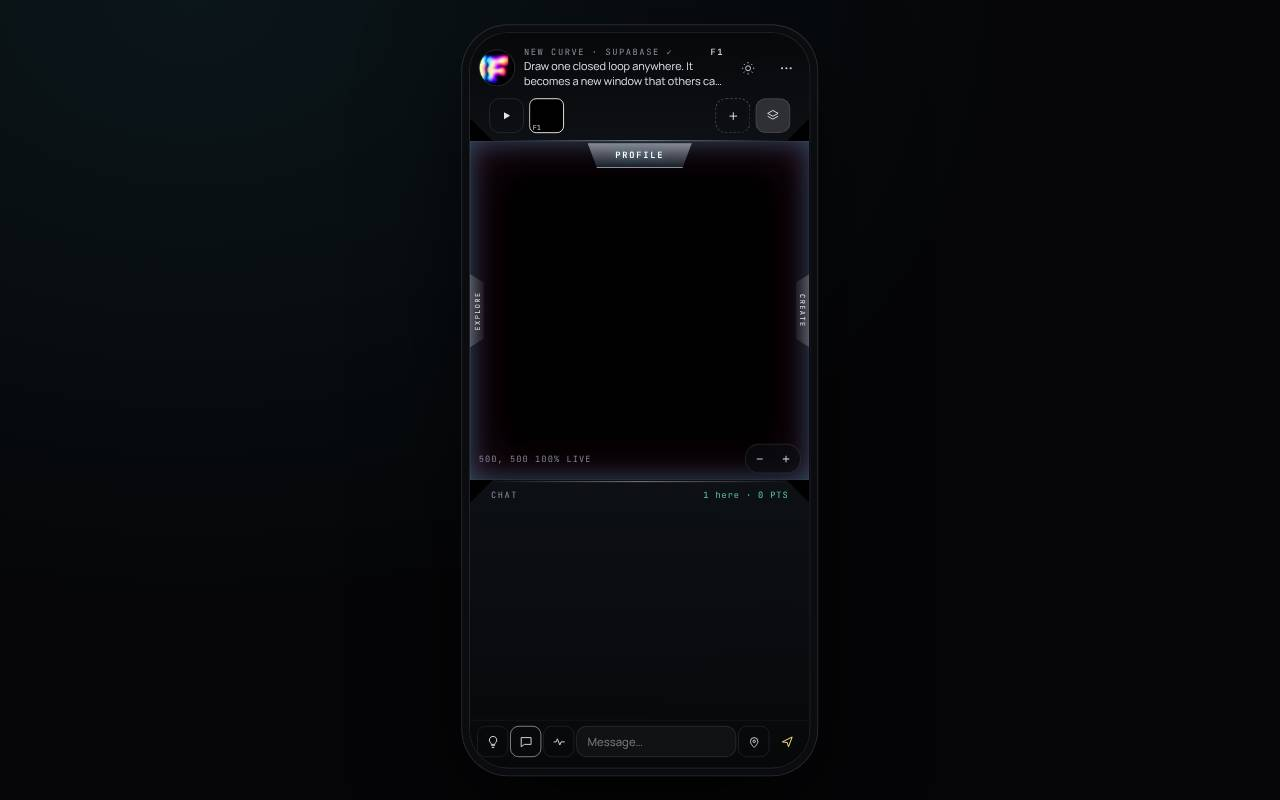
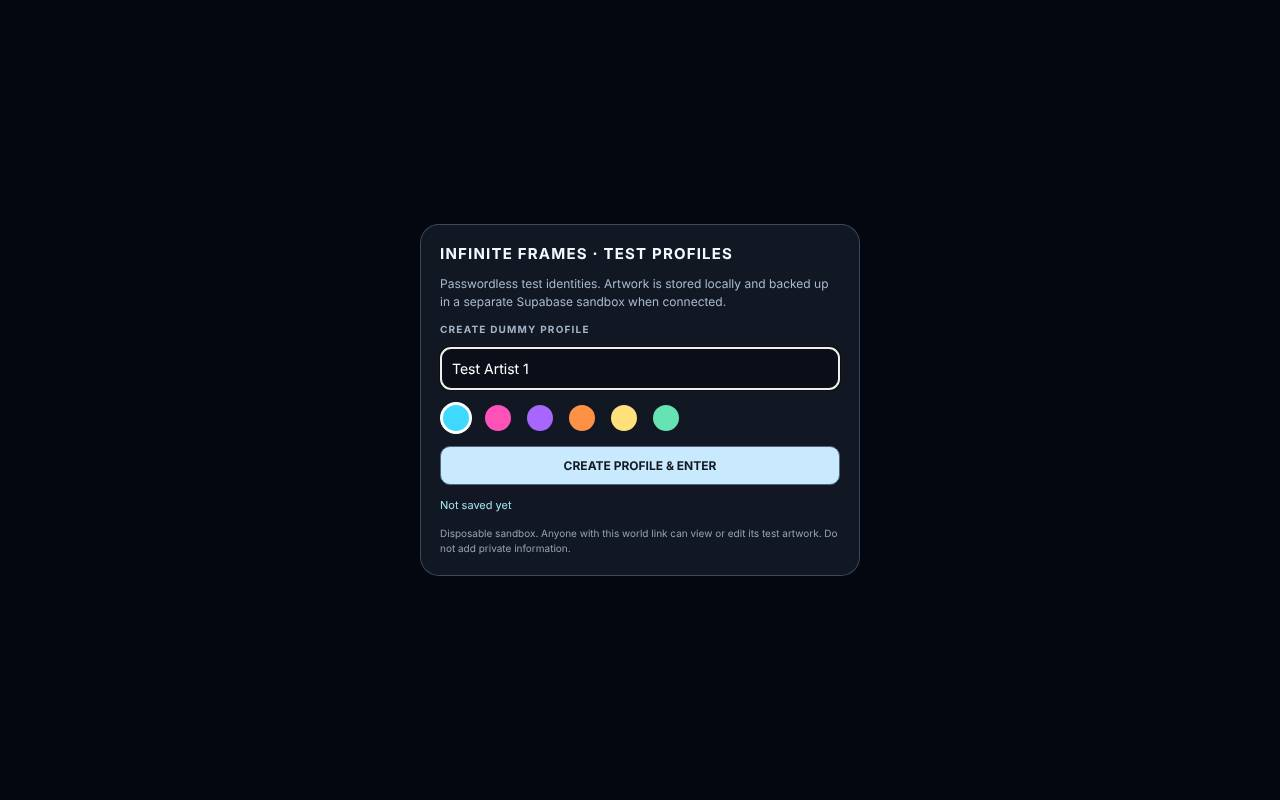
Hub: Start here strip from AI_HANDOFF.md, Rebuild Preview marked main
Adds a Start here section (main app, branch, PR #6, handoff link and the
rules for coding agents), Main / Next candidate / Experiment labels with
the main app first in its lane, an AI_HANDOFF.md card, and a fresh
screenshot of the handoff's preview link.

Claude-Session: https://claude.ai/code/session_01LLn53RhQzgM5NVEMNuSXQy

Changed region(s): [[0.3125, 0.125, 0.6875, 0.7188], [0.375, 0.0625, 0.5625, 0.125], [0.4062, 0.9062, 0.5, 0.9375]]

diff --git a/hub/apps.js b/hub/apps.js
@@ -4,6 +4,31 @@
 //   values: 0 = not yet, 1 = in progress / partly, 2 = works ✓
 // links: ids of apps this one stitches into (draws a line in Web view).
 
+// "Start here" strip shown at the top of the board. Mirrors AI_HANDOFF.md.
+window.HUB_START = {
+  mainApp: "if-rebuild",
+  branch: "feature/guest-test-profiles-supabase-20261114",
+  branchUrl: "https://github.com/outoftheboxartist/infinite-frames/tree/feature/guest-test-profiles-supabase-20261114",
+  pr: "https://github.com/outoftheboxartist/infinite-frames/pull/6",
+  preview: "https://infinite-frames-rebuild-preview-8ngli7mnw.vercel.app",
+  handoff: "https://github.com/outoftheboxartist/infinite-frames/blob/feature/guest-test-profiles-supabase-20261114/AI_HANDOFF.md",
+  notes: [
+    "The default branch inthebox is NOT the latest app.",
+    "Engine V2 is a speed experiment, not a replacement UI."
+  ],
+  rules: [
+    "Fetch the branch head before every work session. GitHub is the shared source of truth, not either model's memory.",
+    "Work in branches and PRs. Never overwrite or merge inthebox without approval.",
+    "Keep the original application as the target, not engine-v2.",
+    "Preserve all artwork and existing app features.",
+    "Run regression tests and check syntax; publish a preview before saying a fix works.",
+    "Say what was tested in code versus checked on a real phone, browser or Supabase.",
+    "Never weaken production auth, RLS or storage permissions to make testing easier.",
+    "Commit a short update to AI_HANDOFF.md when architecture or test flows change.",
+    "Coordinate through the latest commits and PRs: assistants do not sync live."
+  ]
+};
+
 window.HUB_PLATFORMS = [
   { id: "vercel", label: "Vercel", note: "Main · production home", main: true },
   { id: "claude", label: "Claude artifacts", note: "claude.ai pages" },
@@ -27,42 +52,42 @@ const VC = "https://vercel.com/outoftheboxartists-projects/";
 window.HUB_APPS = [
   // ---------- Vercel ----------
   {
-    id: "if-engine", platform: "vercel", name: "Infinite Frames · Engine",
+    id: "if-engine", platform: "vercel", name: "Infinite Frames · Engine", role: "candidate",
     url: "https://infinite-frames-engine.vercel.app",
     code: REPO + "/tree/feature/canvas-engine-transplant-20261117",
     dash: VC + "infinite-frames-engine", shot: "shots/infinite-frames-engine.jpg",
     date: "2026-11-17",
-    features: "Original app with the nested canvas engine: map-style tile cache, lab-style navigation, shared guest test world, 3D box.",
+    features: "Newer branch: the original app with the nested canvas engine (tile cache, lab-style navigation, shared guest test world, 3D box). Not main yet; merge into the main branch when it is proven.",
     status: { if: 2, test: 1, ui: 2, perfect: 1, users: 1, frames: 2 },
     links: ["if-artifact", "if-rebuild", "if-nested-lab"]
   },
   {
-    id: "if-rebuild", platform: "vercel", name: "Rebuild Preview",
-    url: "https://infinite-frames-rebuild-preview.vercel.app",
+    id: "if-rebuild", platform: "vercel", name: "Rebuild Preview", role: "main",
+    url: "https://infinite-frames-rebuild-preview-8ngli7mnw.vercel.app",
     code: REPO + "/tree/feature/guest-test-profiles-supabase-20261114",
     dash: VC + "infinite-frames-rebuild-preview", shot: "shots/infinite-frames-rebuild-preview.jpg",
     date: "2026-11-14",
-    features: "Guest test profiles on Supabase, cloud save, offline reset, single-SVG publish.",
+    features: "THE MAIN APP. Original UI with passwordless test profiles, local-first test canvas with Supabase sandbox backup, reset, curve hit selection, region navigation, Publish & Lock. Draft PR #6.",
     status: { if: 2, test: 2, ui: 1, perfect: 0, users: 2, frames: 1 },
     links: ["if-engine"]
   },
   {
-    id: "if-v2-integration", platform: "vercel", name: "Spatial Engine V2 · Integration",
+    id: "if-v2-integration", platform: "vercel", name: "Spatial Engine V2 · Integration", role: "experiment",
     url: "https://infinite-frames-v2-integration.vercel.app",
     code: REPO + "/tree/feature/v2-real-world-renderer",
     dash: VC + "infinite-frames-v2-integration", shot: "shots/infinite-frames-v2-integration.jpg",
     date: "2026-11-14",
-    features: "V2 renderer reading the real world read-only; published geometry storage.",
+    features: "Speed experiment, not a UI replacement. V2 renderer reading the real world read-only.",
     status: { if: 2, test: 1, ui: 1, perfect: 0, users: 0, frames: 1 },
-    links: ["if-engine-v2"]
+    links: ["if-engine-v2", "if-rebuild"]
   },
   {
-    id: "if-engine-v2", platform: "vercel", name: "Spatial Engine V2",
+    id: "if-engine-v2", platform: "vercel", name: "Spatial Engine V2", role: "experiment",
     url: "https://infinite-frames-engine-v2.vercel.app",
     code: REPO + "/tree/engine/v2-spatial-foundation",
     dash: VC + "infinite-frames-engine-v2", shot: "shots/infinite-frames-engine-v2.jpg",
     date: "2026-11-14",
-    features: "Spatial foundation: relationship-based opacity, one world infinite detail, speed/stats HUD.",
+    features: "Speed experiment, not a UI replacement. Its viewport/quadtree tricks are already folded into the main app.",
     status: { if: 2, test: 1, ui: 1, perfect: 0, users: 0, frames: 0 },
     links: ["if-spatial"]
   },
@@ -202,6 +227,14 @@ window.HUB_APPS = [
   },
 
   // ---------- GitHub folders ----------
+  {
+    id: "ai-handoff", platform: "github", name: "AI_HANDOFF.md (read first)", role: "main",
+    url: REPO + "/blob/feature/guest-test-profiles-supabase-20261114/AI_HANDOFF.md",
+    code: REPO + "/tree/feature/guest-test-profiles-supabase-20261114",
+    shot: "", date: "2026-11-14",
+    features: "Shared notes for Claude, ChatGPT and any coding agent: current branch, PR, preview, database rules and what still needs checking.",
+    status: { if: 2, test: 0, ui: 0, perfect: 1, users: 0, frames: 0 }, links: ["if-rebuild"]
+  },
   {
     id: "if-repo-app", platform: "github", name: "app/ (main app source)",
     url: REPO + "/blob/main/app/local-preview.html", code: REPO + "/tree/main/app",

diff --git a/hub/index.html b/hub/index.html
@@ -128,6 +128,21 @@ dialog::backdrop{background:rgba(20,16,12,.45)}
 .btn.danger{color:#b42318;border-color:#e4b4ae;margin-right:auto}
 .toast{position:fixed;bottom:16px;left:50%;transform:translateX(-50%);background:var(--ink);color:var(--bg);padding:10px 16px;border-radius:8px;opacity:0;transition:opacity .2s;pointer-events:none}
 .toast.on{opacity:1}
+.start{background:var(--card);border:2px solid var(--ink);border-radius:var(--r);padding:16px;margin:16px 0 0;display:grid;grid-template-columns:minmax(0,1fr) minmax(0,1.2fr);gap:16px 24px}
+.start h2{margin:0 0 8px;font-size:22px;font-weight:400}
+.start dl{margin:0;display:grid;grid-template-columns:auto 1fr;gap:6px 12px;font-size:13px}
+.start dt{color:var(--ink-3)}
+.start dd{margin:0;overflow-wrap:anywhere}
+.start code{font-size:12px;background:var(--wood);padding:1px 6px;border-radius:4px}
+.start ol{margin:0;padding-left:20px;font-size:13px;color:var(--ink-2);display:grid;gap:4px}
+.start .warn{margin:10px 0 0;font-size:13px;color:var(--ink-2)}
+.start details summary{cursor:pointer;font-weight:600;font-size:13px;margin-bottom:8px}
+.role{font:600 10px Inter;text-transform:uppercase;letter-spacing:.06em;padding:2px 7px;border-radius:99px;white-space:nowrap;align-self:center}
+.role.main{background:var(--ink);color:var(--bg)}
+.role.experiment{border:1px solid var(--line-2);color:var(--ink-2)}
+.role.candidate{background:var(--part-bg);color:var(--part)}
+.card.is-main{border:2px solid var(--ink)}
+@media (max-width:760px){.start{grid-template-columns:1fr}}
 .foot{margin-top:40px;color:var(--ink-3);font-size:12px;border-top:1px solid var(--line);padding-top:12px}
 
 @media (max-width:640px){
@@ -152,6 +167,8 @@ dialog::backdrop{background:rgba(20,16,12,.45)}
     </div>
     <div class="stats" id="stats"></div>
   </header>
+
+  <section class="start" id="start" aria-label="Start here"></section>
 
   <div class="bar" role="toolbar" aria-label="Board controls">
     <div class="seg" role="group" aria-label="View">
@@ -204,6 +221,9 @@ const $ = s => document.querySelector(s);
 const esc = s => String(s ?? "").replace(/[&<>"']/g, c => ({"&":"&amp;","<":"&lt;",">":"&gt;",'"':"&quot;","'":"&#39;"}[c]));
 const byId = id => apps.find(a => a.id === id);
 const score = a => COLS.reduce((s,c) => s + (a.status?.[c.id] || 0), 0);
+const SEED = Object.fromEntries(window.HUB_APPS.map(a => [a.id, a]));
+const roleOf = a => a.role || SEED[a.id]?.role || "";
+const ROLE_LABEL = {main:"Main", experiment:"Experiment", candidate:"Next candidate"};
 const kind = a => COLS.some(c => a.status?.[c.id] === 2) ? "works" : score(a) > 0 ? "progress" : "idea";
 
 function save(){ if(!store.set(KEY, {apps, ui, target: $("#target").value})) toast("Couldn't save in this browser. Use Export JSON to keep your changes."); }
@@ -245,10 +265,11 @@ function cardHTML(a){
   const st = (a.links||[]).map(byId).filter(Boolean);
   const into = apps.filter(b => (b.links||[]).includes(a.id));
   const chips = [...st, ...into.filter(b => !st.includes(b))].map(b => `<button class="chip" data-act="jump" data-id="${b.id}">${esc(b.name)}</button>`).join("");
-  return `<article class="card" id="c-${a.id}">
+  const role = roleOf(a);
+  return `<article class="card${role==="main"?" is-main":""}" id="c-${a.id}">
     ${shotWrap}
     <div class="body">
-      <div class="title"><h3>${esc(a.name)}</h3><span class="date">${esc(a.date||"")}</span></div>
+      <div class="title"><h3>${esc(a.name)}</h3>${role ? `<span class="role ${role}">${ROLE_LABEL[role]}</span>` : ""}<span class="date">${esc(a.date||"")}</span></div>
       ${a.features ? `<p class="feat">${esc(a.features)}</p>` : ""}
       <div class="status" role="group" aria-label="Status for ${esc(a.name)}">${status}</div>
       <div class="links">${links}</div>
@@ -259,7 +280,8 @@ function cardHTML(a){
 function renderBoard(){
   const list = visible();
   $("#view").innerHTML = PLAT.map(p => {
-    const items = list.filter(a => a.platform === p.id);
+    const rank = a => ({main:0, candidate:1}[roleOf(a)] ?? 2);
+    const items = list.filter(a => a.platform === p.id).sort((a,b) => rank(a) - rank(b));
     const all = apps.filter(a => a.platform === p.id).length;
     const body = items.length ? `<div class="grid">${items.map(cardHTML).join("")}</div>`
       : `<div class="empty">${all ? "No apps here match this filter." : `No ${esc(p.label)} apps yet. Paste a link to start this lane.`}
@@ -311,7 +333,27 @@ function renderWeb(){
   web.addEventListener("focusin", e => { const n = e.target.closest(".node"); hot(n ? n.dataset.id : null); });
 }
 
+function renderStart(){
+  const S = window.HUB_START; if(!S) return;
+  const main = byId(S.mainApp) || SEED[S.mainApp];
+  $("#start").innerHTML = `<div>
+      <h2 class="marker">Start here</h2>
+      <dl>
+        <dt>Main app</dt><dd><a href="${esc(S.preview)}" target="_blank" rel="noopener"><b>${esc(main ? main.name : "Rebuild Preview")}</b> ↗</a> <button class="chip" data-act="jump" data-id="${esc(S.mainApp)}">Show card</button></dd>
+        <dt>Branch</dt><dd><a href="${esc(S.branchUrl)}" target="_blank" rel="noopener"><code>${esc(S.branch)}</code></a></dd>
+        <dt>Pull request</dt><dd><a href="${esc(S.pr)}" target="_blank" rel="noopener">#6 (draft, not merged)</a></dd>
+        <dt>Handoff</dt><dd><a href="${esc(S.handoff)}" target="_blank" rel="noopener">AI_HANDOFF.md</a>: read before any work</dd>
+      </dl>
+      <p class="warn">${S.notes.map(esc).join(" ")}</p>
+    </div>
+    <details open>
+      <summary>Rules for Claude, ChatGPT and other coding agents</summary>
+      <ol>${S.rules.map(r => `<li>${esc(r)}</li>`).join("")}</ol>
+    </details>`;
+}
+
 function render(){
+  renderStart();
   $("#vBoard").setAttribute("aria-pressed", ui.view==="board");
   $("#vWeb").setAttribute("aria-pressed", ui.view==="web");
   $("#filter").value = ui.filter; $("#sort").value = ui.sort;
